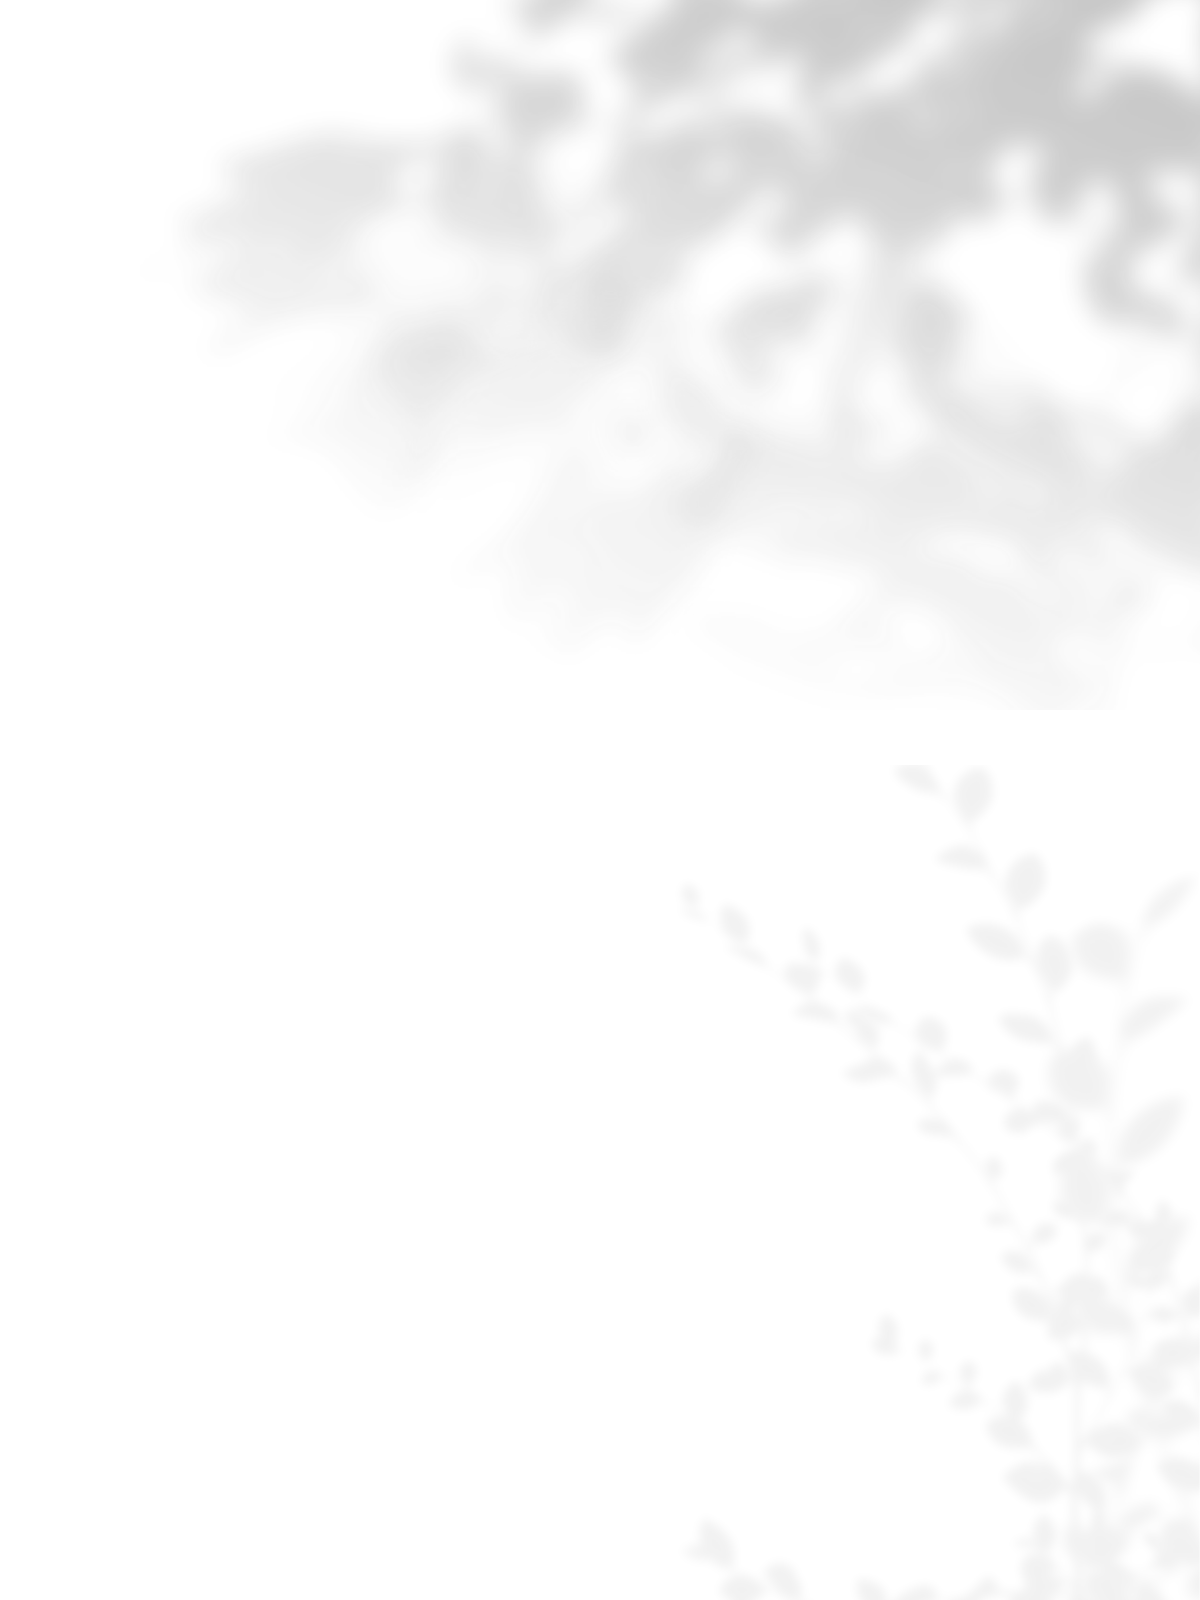
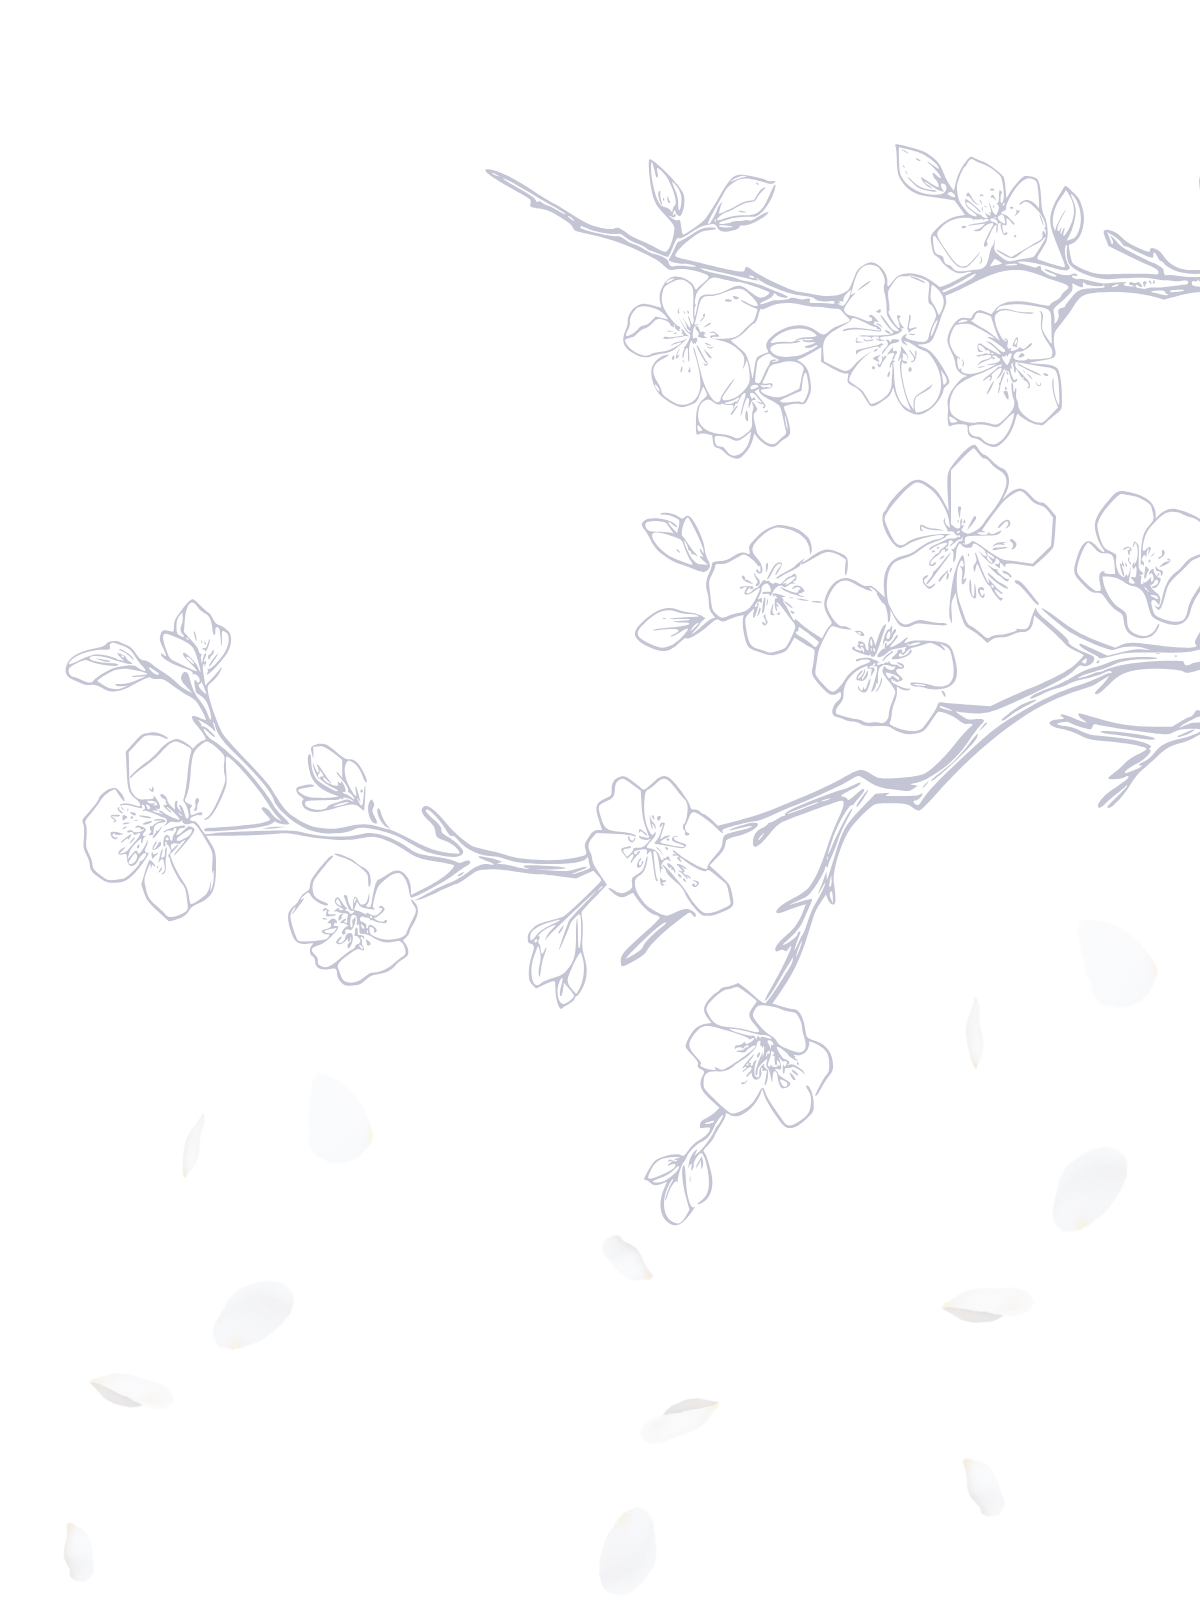
Update flow section styles and improve text clarity for better user experience

diff --git a/css/style.css b/css/style.css
@@ -1241,10 +1241,10 @@ box-shadow:
 
 .flow {
   position: relative;
-  background-image: url("images/flow-shadow.png");
+  background-image: url("../images/flow-shadow.png");
   background-repeat: no-repeat;
-  background-position: right center;
-  background-size: 48% auto;
+  background-position: right 80px;
+  background-size: 42% auto;
 }
 
 .flow__layout {
@@ -1348,20 +1348,6 @@ box-shadow:
   font-size: 14px;
   line-height: 2;
   color: var(--text-soft);
-}
-
-/* 右側：装飾画像 */
-.flow__visual {
-  height: 680px;
-  overflow: hidden;
-}
-
-.flow__visual img {
-  display: block;
-  width: 100%;
-  height: 100%;
-  object-fit: cover;
-  object-position: center;
 }
 
 /* =========================

diff --git a/index.html b/index.html
@@ -471,10 +471,11 @@
             <span class="flow__num">03</span>
             <div class="flow__content">
               <h3>当日ご訪問・着付け</h3>
-              <p>
-                ご指定の場所へお伺いし、<br>
-                落ち着いてお過ごしいただけるよう丁寧に着付けを行います。
-              </p>
+             <p>
+               ご指定の場所へお伺いし、<br>
+               心地よくお過ごしいただけるよう、<br>
+               丁寧に着付けを行います。
+             </p>
             </div>
           </div>
 
